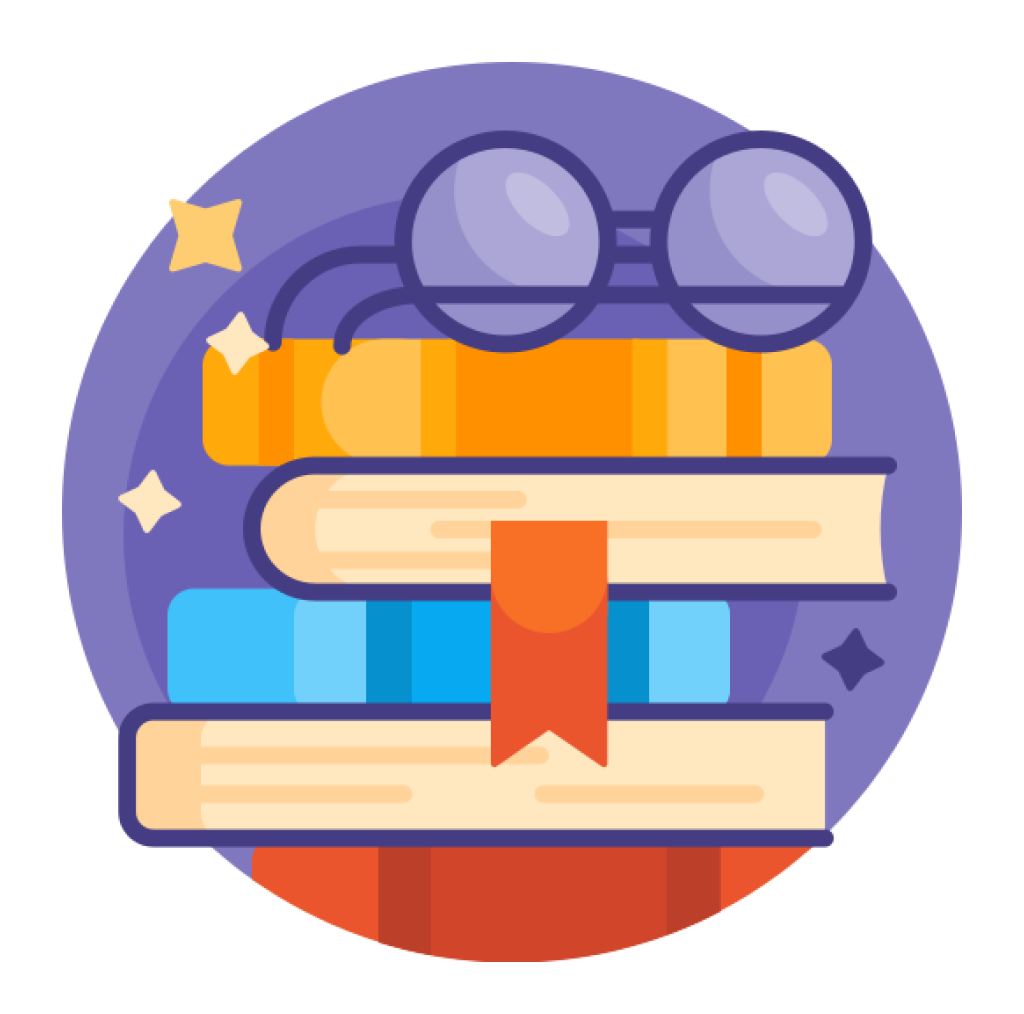
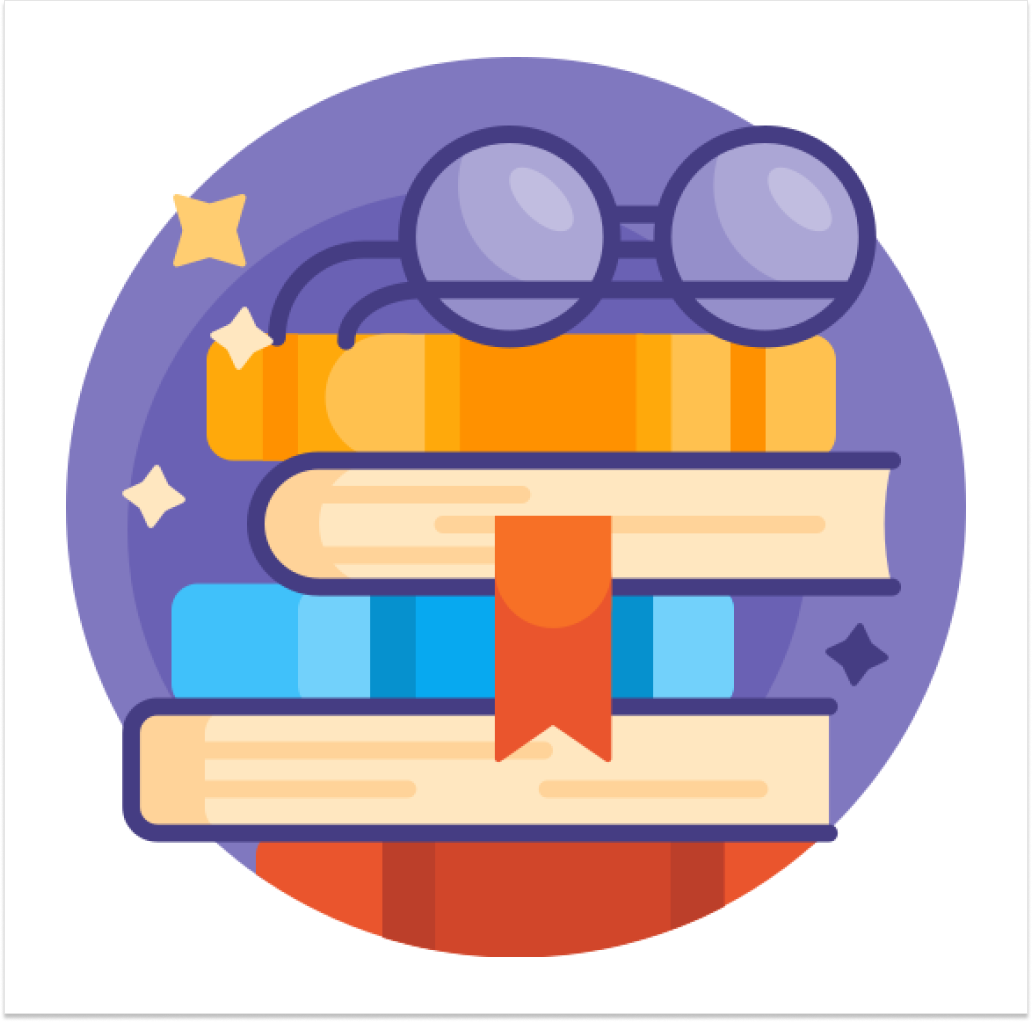
apk pronto

diff --git a/src/screens/Slide03/styles.ts b/src/screens/Slide03/styles.ts
@@ -11,7 +11,6 @@ export const styles = StyleSheet.create({
     },
 
     buttonContainer: {
-        flex: 1,
         bottom:10,
         flexDirection: 'row',
         justifyContent: 'space-around',
@@ -23,13 +22,12 @@ export const styles = StyleSheet.create({
     img: {
         width: 220,
         height: 220,
-        marginTop: 150,
         display: 'flex'
 
     },
 
     centralizar: {
-        display: 'flex',
+        flex: 1,
         alignItems: 'center',
         justifyContent: 'center'
     },

diff --git a/src/screens/Slide01/styles.ts b/src/screens/Slide01/styles.ts
@@ -11,7 +11,6 @@ export const styles = StyleSheet.create({
     },
 
     buttonContainer: {
-        flex: 1,
         bottom:10,
         flexDirection: 'row',
         justifyContent: 'space-around',
@@ -23,13 +22,13 @@ export const styles = StyleSheet.create({
     img: {
         width: 220,
         height: 220,
-        marginTop: 150,
         display: 'flex'
 
     },
 
 
     centralizar: {
+        flex: 1,
         display: 'flex',
         alignItems: 'center',
         justifyContent: 'center'
